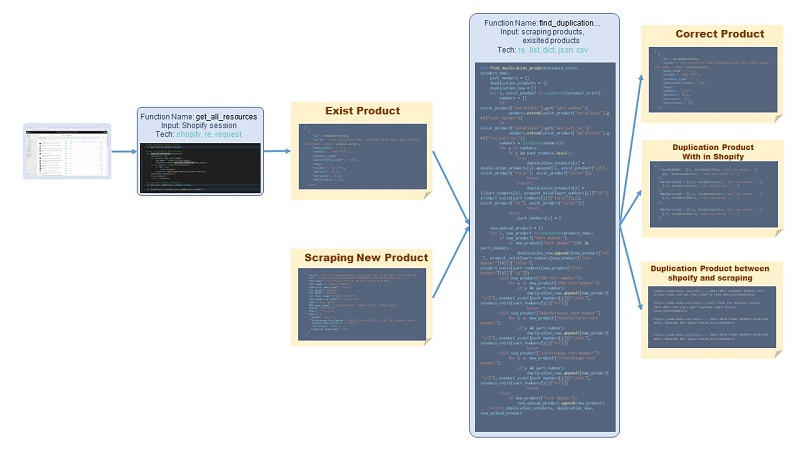
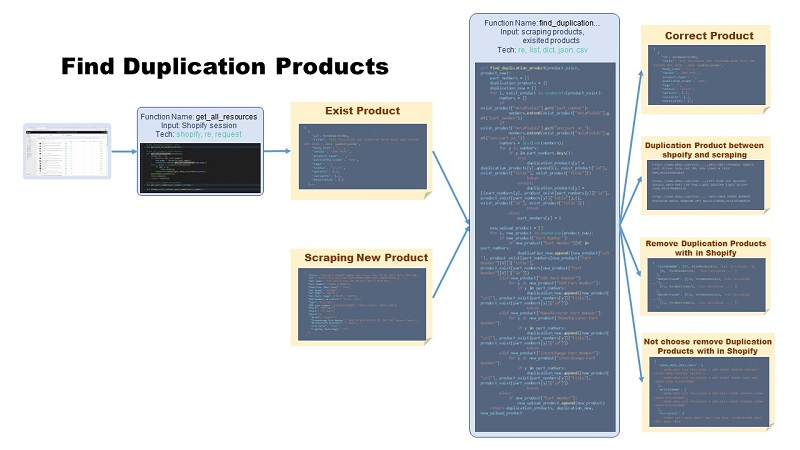
update: Readme.MD

Changed region(s): [[0.75, 0.0622, 1.0, 0.9644], [0.0625, 0.1244, 0.5, 0.1867]]

diff --git a/Readme.MD b/Readme.MD
@@ -22,6 +22,7 @@ This project has 4 main components.
 
         openai = sk-****************************************
         xlsx_file = List.xlsx
+        SCRAP_PRODUCTS = scraping_products.json  # products which are scraped from ebay site
 
 3)  Run
 
@@ -47,12 +48,14 @@ Find duplicate products between Shopify and new products, and within Shopify
         SHOP_NAME = myshopify
         ADMIN_API_ACCESS_TOKEN = shpat_*******************************
         NEW_CHECKED_PRODUCT = new_upload_product.json  # products which all data is correct
-        DUPLICATION_NEW_PRODCUT = duplication_new.csv  # duplication products between shopify and new products
-        DUPLICATION_EXIST_PRODUCT = duplication_products.json  # duplication products within shopify
-        SCRAP_PRODUCTS = scraping_products.json  # products which are scraped from ebay site
+        DUPLICATION_NEW_PRODCUT = duplication_new.csv  # duplication products between shopify and new products        
+
+        REMOVE_PRODUCT_LIST = remove_product_list.json # remove duplication products with in shopify
+        ADMIN_HANDLE_PRODUCT_LIST = admin_handle_product_list.json # duplicate products within Shopify, but it is difficult to select the product to delete
 
 3) Run
-`python shopify_data.py`
+
+        `python shopify_data.py`
 
 ### 2. Upload new products
 
@@ -61,7 +64,17 @@ Find duplicate products between Shopify and new products, and within Shopify
 
 #### Usage
 1) Run
-        python shopify_add_products.py
+
+        `python shopify_add_products.py`
+
+### 3. Delete duplication products
+
+#### Dialogflow
+![enter image description here](./diagram/remove_duplication_production.jpg)
+#### Usage
+1) Run
+
+        `python shopify_delete_products.py`
 
 ### 3. AI Generator for candidates list
 
